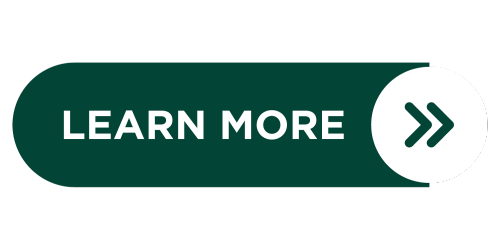
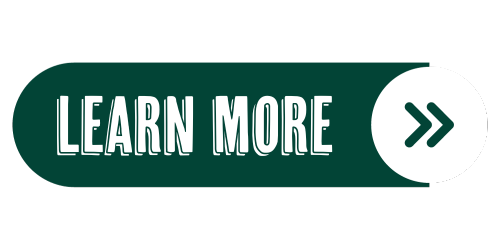
Added Social Links

Changed region(s): [[0.09, 0.364, 0.69, 0.644]]

diff --git a/client/src/components/Footer.js b/client/src/components/Footer.js
@@ -1,20 +1,21 @@
 import React from 'react'
-import { FaFacebook, FaInstagram } from 'react-icons/fa'
+import { FaFacebook, FaInstagram, FaLinkedinIn } from 'react-icons/fa'
 import { FaTwitter } from 'react-icons/fa'
-import CTAbutton from '../assets/Images/CTAbutton1.png'
+import CTAbutton from '../assets/Images/CTAbutton2.png'
 
 const Footer = () => {
   return (
     <div className="cta-container">
-      <h3 className="cta-title">Get Started with Our Product!</h3>
-      <p className="cta-description">Join us and explore the endless possibilities with our versatile product.</p>
+      <h3 className="cta-title">Elevate Your Hydration with RINS9!</h3>
+      <p className="cta-description">Click learn more to see our full selection of RINS9 beverages and many other great products</p>
       <div className='cta-button'>
            <a href='https://www.snapdragonhemp.com/product/canna-bliss-sparkling-infused-water-12oz-10mg-or-25mg-delta-9-thc/'><img className='CButton' alt='Call-action-button' src={CTAbutton}/></a>
         </div>
       <div className="cta-socials">
-        <a href="#facebook" className="cta-social-link"><FaFacebook/></a>
-        <a href="#twitter" className="cta-social-link"><FaTwitter/></a>
-        <a href="#instagram" className="cta-social-link"><FaInstagram/></a>
+        <a href="https://www.facebook.com/profile.php?id=100093248125807" className="cta-social-link"><FaFacebook/></a>
+        <a href="https://twitter.com/SnapdragonHemp" className="cta-social-link"><FaTwitter/></a>
+        <a href="https://www.instagram.com/snapdragon_hemp/" className="cta-social-link"><FaInstagram/></a>
+        <a href="https://www.linkedin.com/company/snapdragon-hemp/" className="cta-social-link"><FaLinkedinIn/></a>
       </div>
       <p className="cta-copyright">© 2023 Snapdragon Hemp. All rights reserved.</p>
     </div>

diff --git a/client/src/App.css b/client/src/App.css
@@ -281,17 +281,19 @@ body {
   text-align: center;
   color: #fff;
   border: 1px solid #fff;
+  display: flex;
+  flex-direction: column;
 }
 
 .cta-title {
   font-size: 3rem;
   margin-bottom: 1rem;
-  letter-spacing: .25rem;
+  letter-spacing: .1rem;
   
 }
 
 .cta-description {
-  font-size: 2rem;
+  font-size: 1.5rem;
   margin-bottom: 2rem;
 }
 
@@ -303,8 +305,13 @@ body {
 }
 
 .cta-socials {
-  margin-top: 2rem;
+  display: flex;
+  justify-content: center;
+  align-items: center;
+  margin: auto;
+  margin-top: 1rem;
   margin-bottom: 1rem;
+  font-size: 1.5rem;
 }
 
 .cta-social-link {
@@ -317,14 +324,15 @@ body {
 .cta-copyright {
   margin-top: 1rem;
   font-size: 1rem;
+  
 }
 
 /* Media Query for Mobile responsiveness */
 @media (max-width: 768px) {
   .cta-title {
-    font-size: 2rem;
+    font-size: 2.5rem;
   }
   .cta-description {
-    font-size: 1rem;
+    font-size: 1.5rem;
   }
 }
